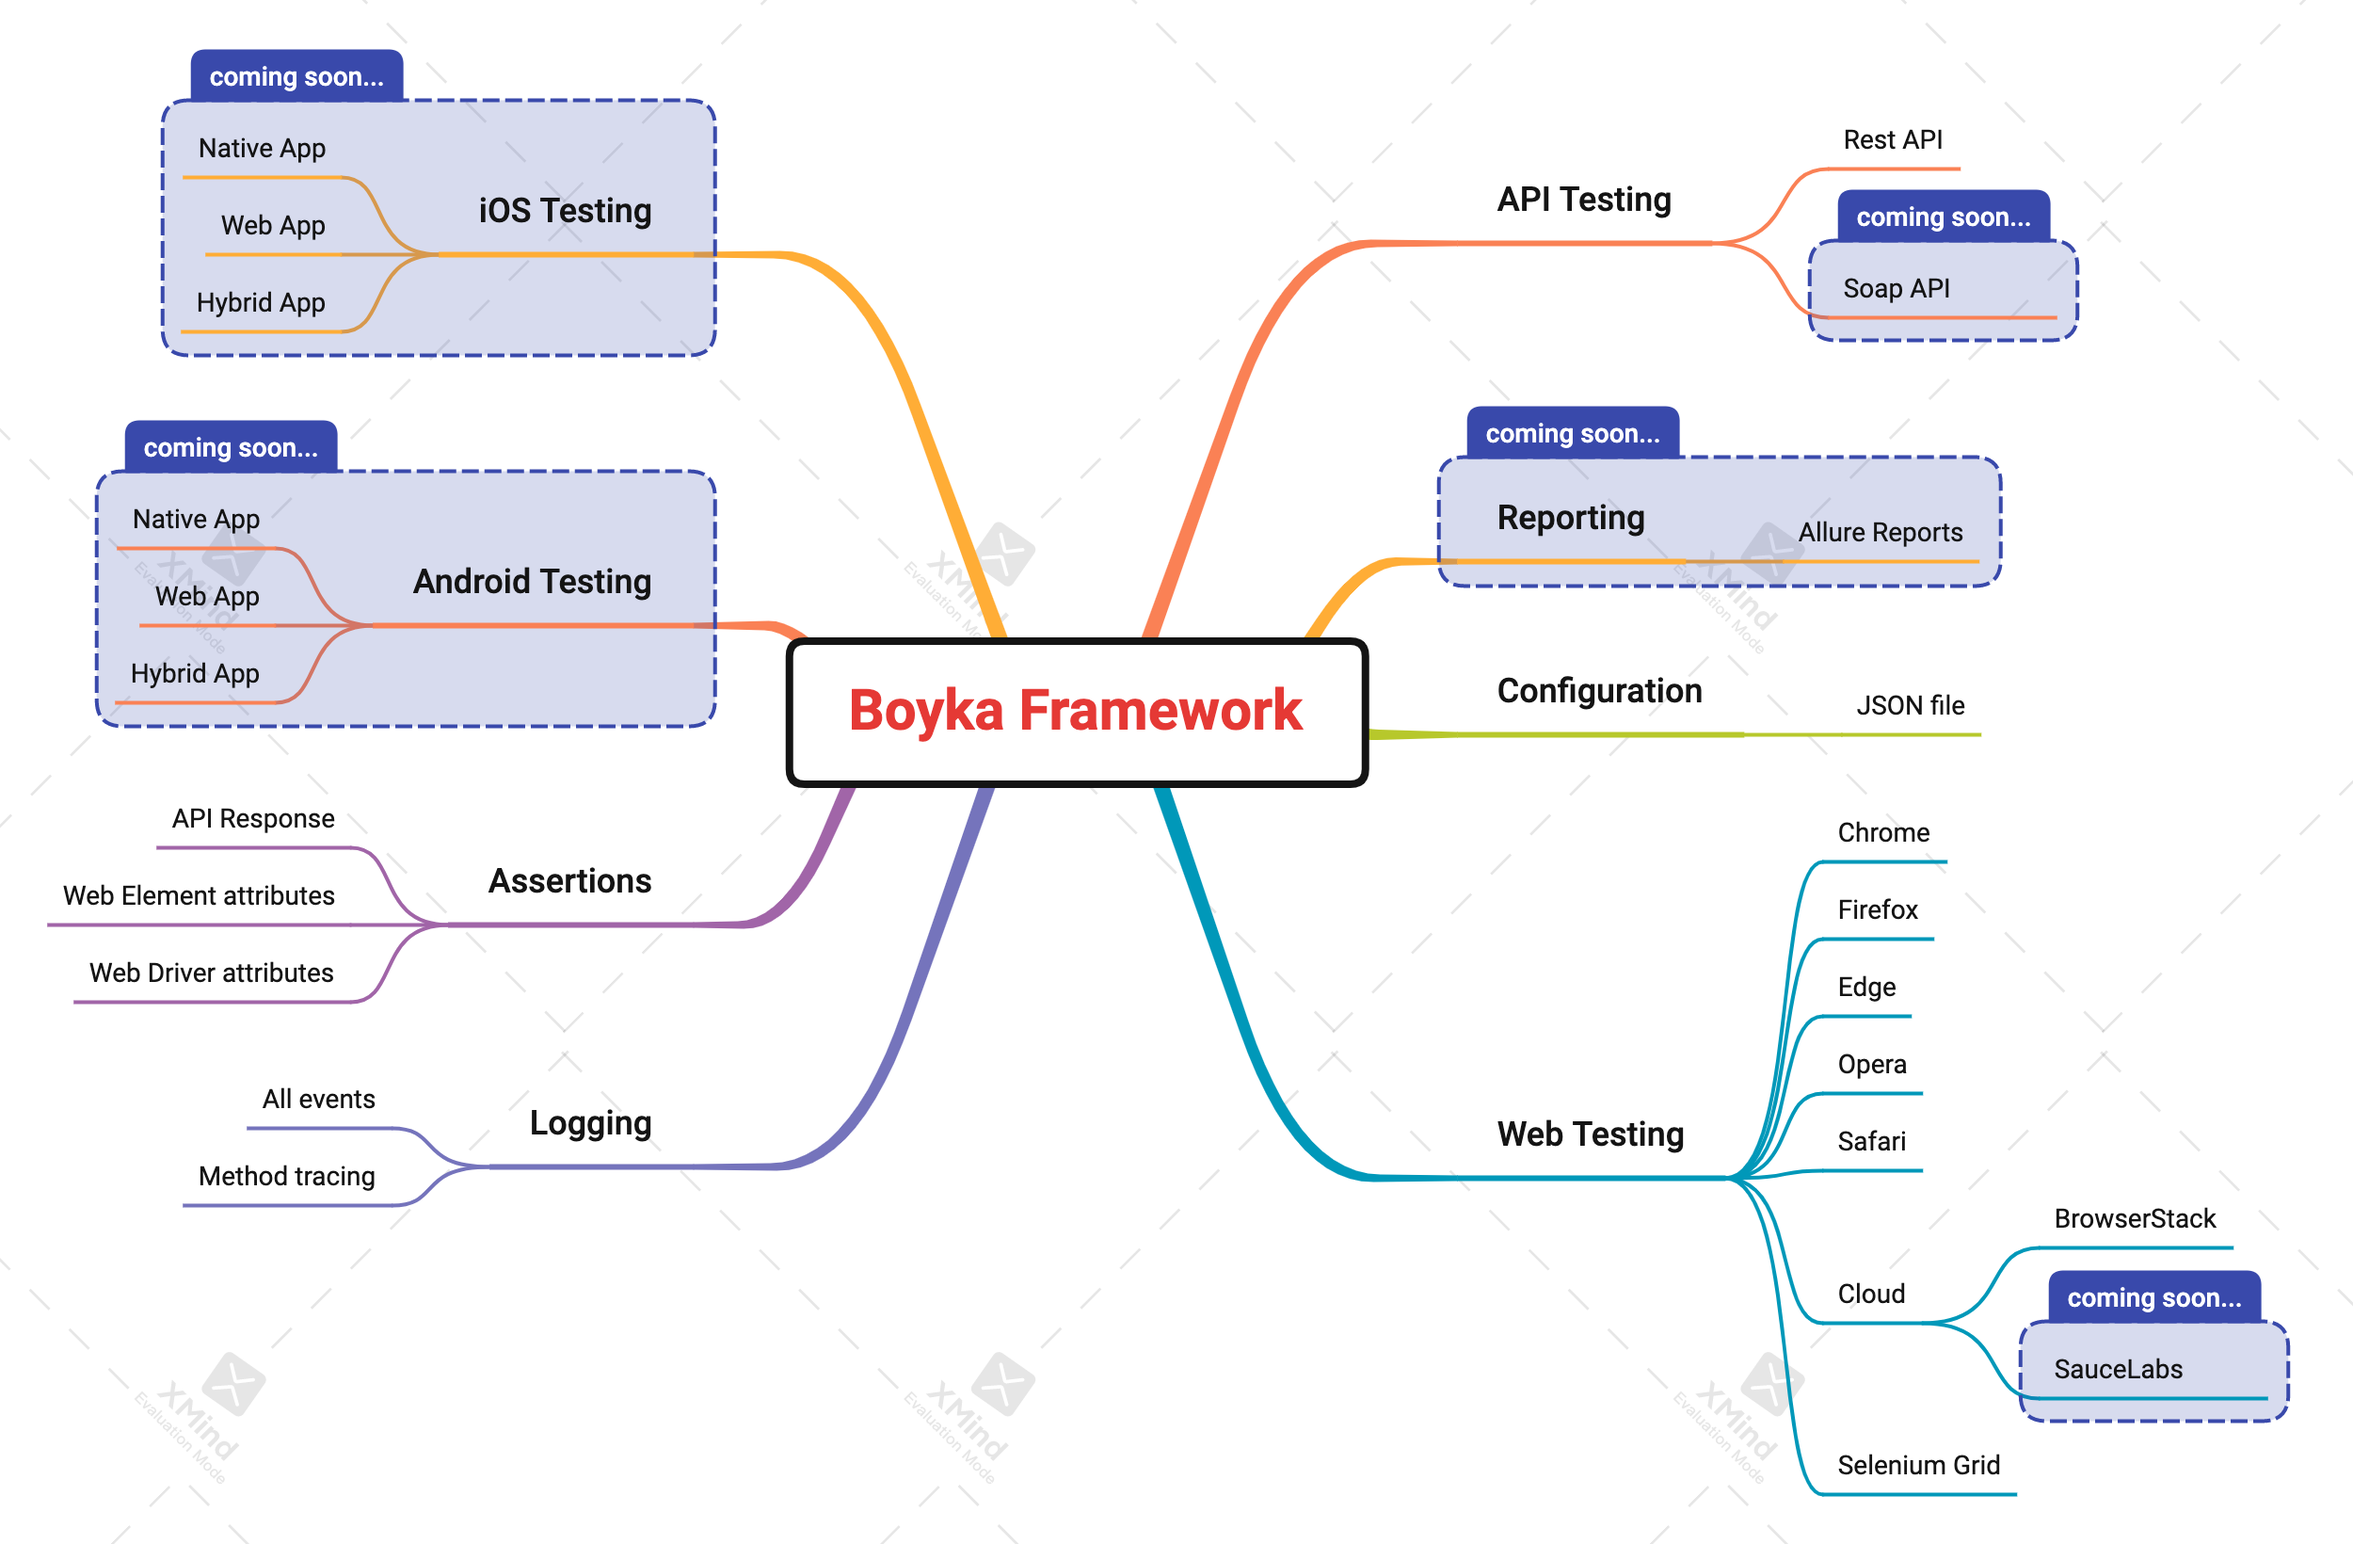
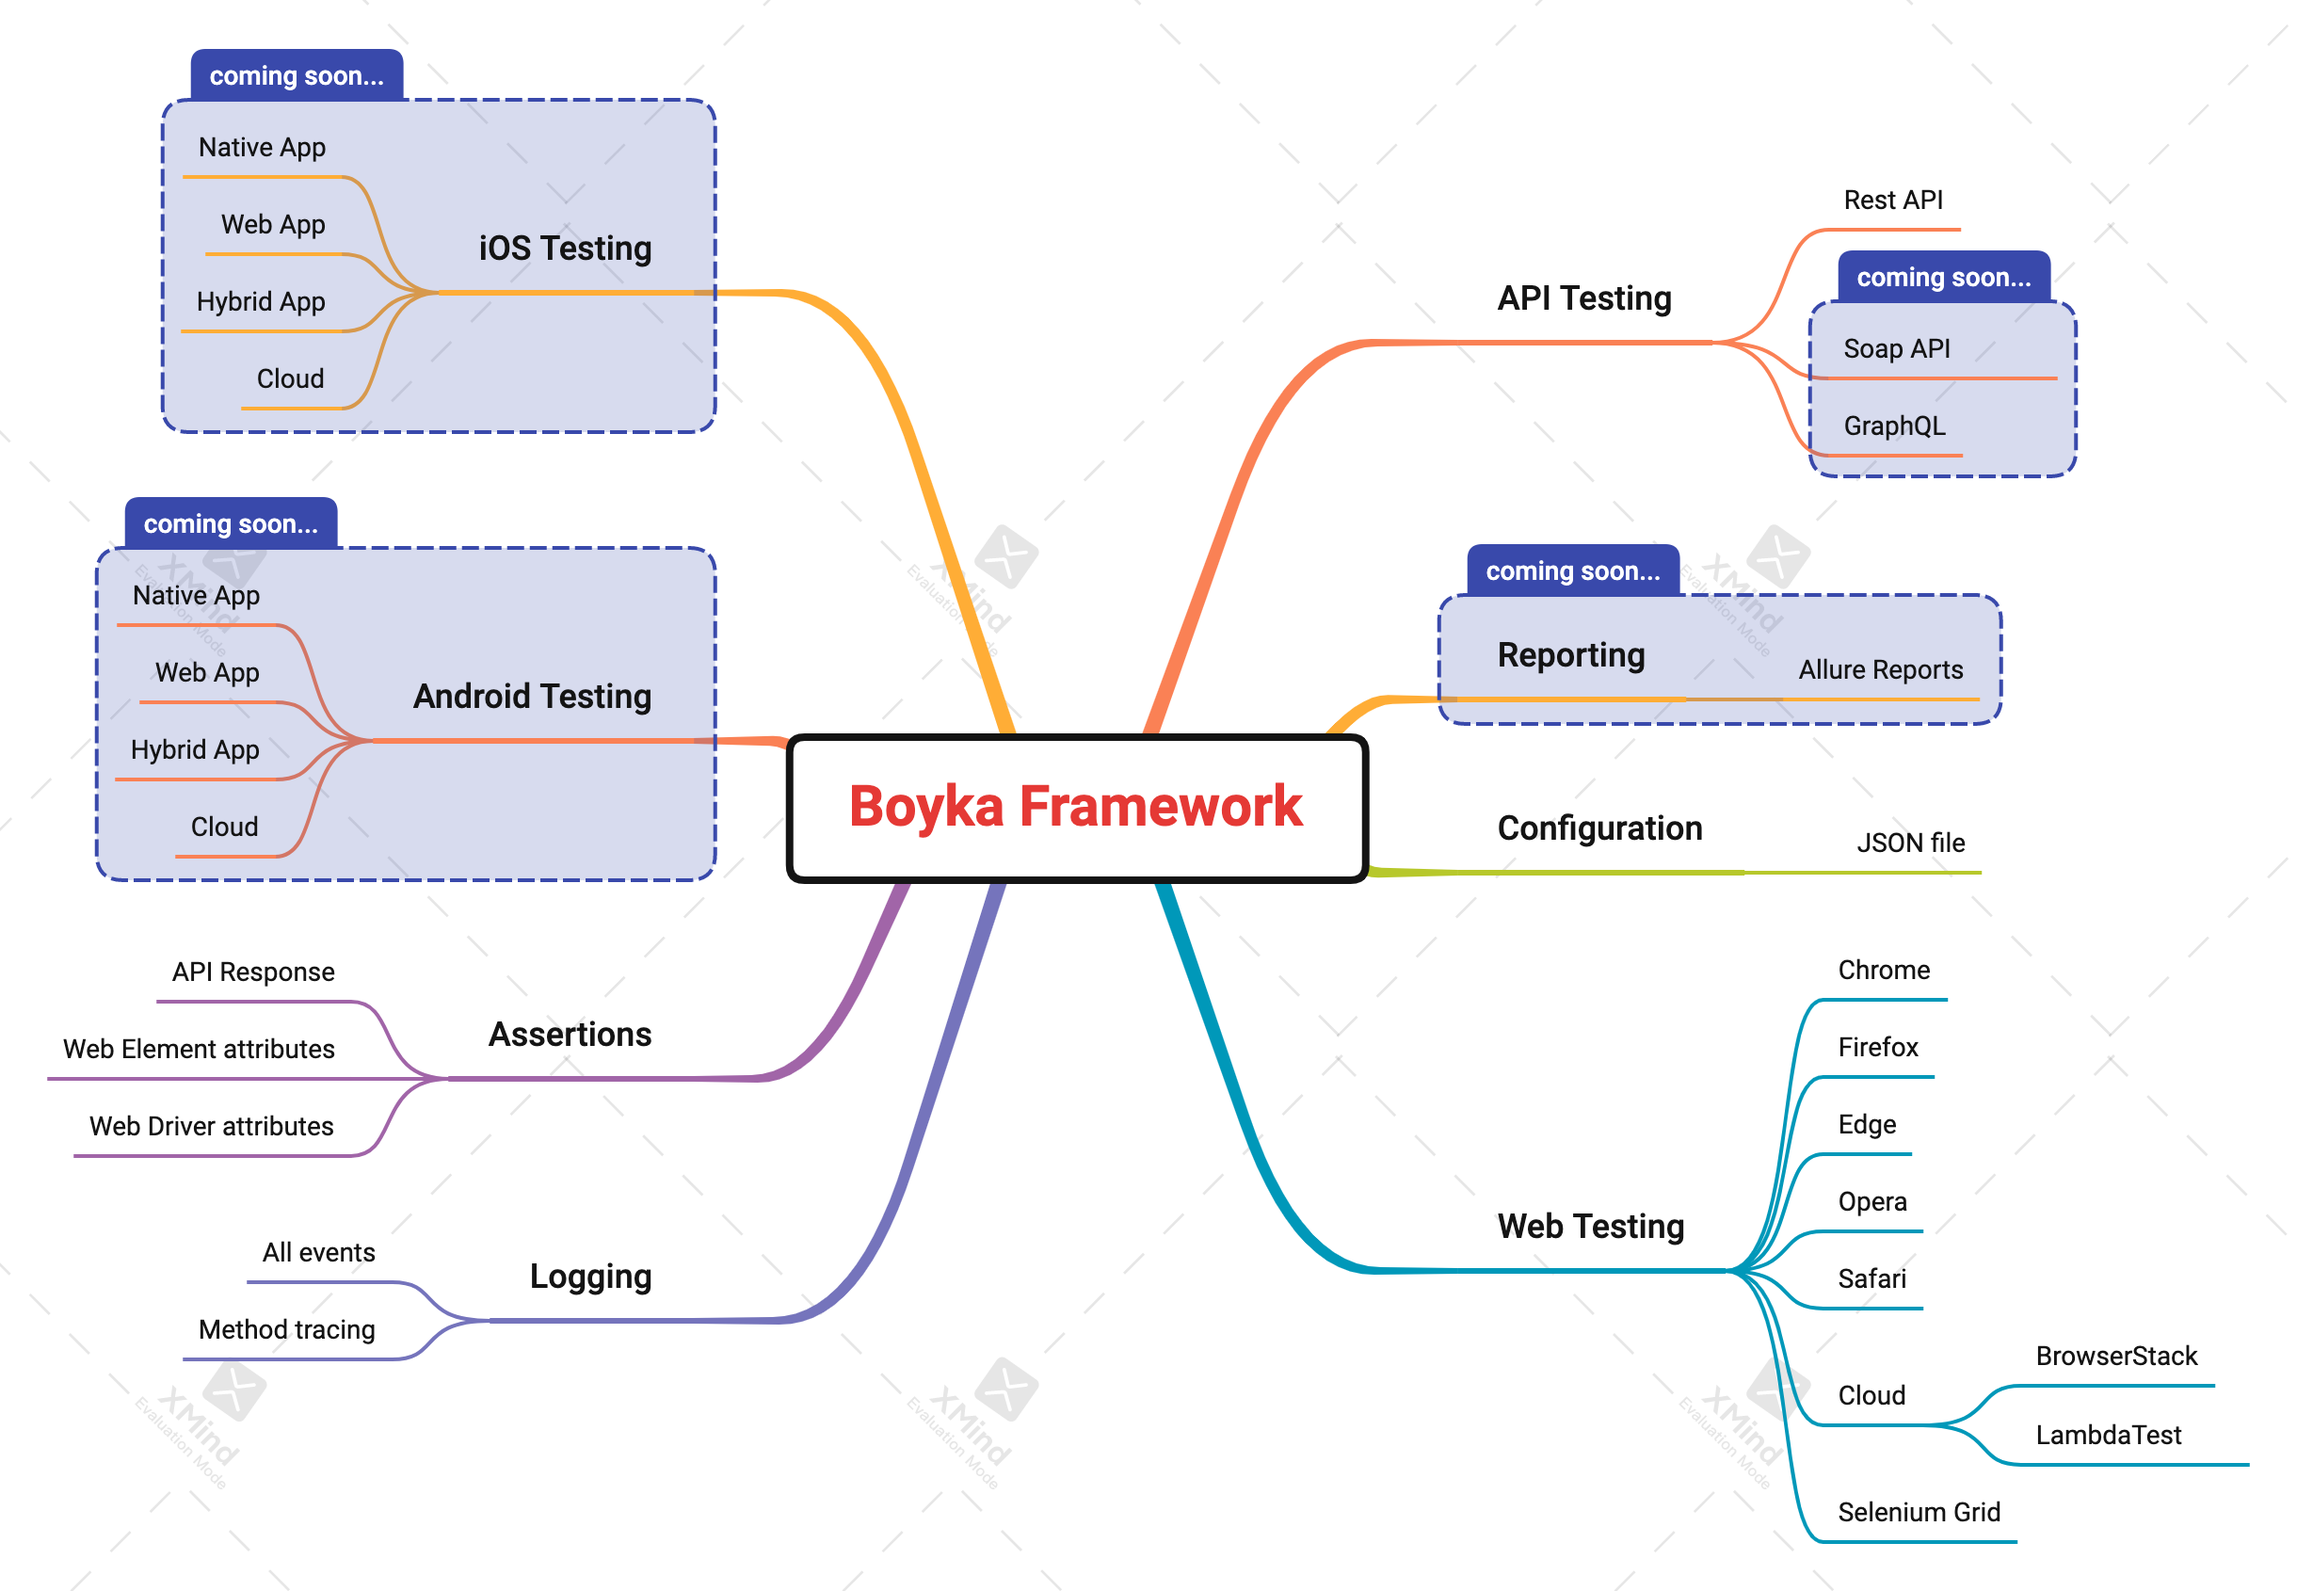
docs(website): :memo: added API related docs
and removed scaffolded blog posts

Changed region(s): [[0.0311, 0.0311, 0.9967, 0.9951], [0.1869, 0.7152, 0.3738, 0.8396], [0.4049, 0.8396, 0.4672, 0.9329]]

diff --git a/website/docs/framework-docs/guides/api/compose-request.md b/website/docs/framework-docs/guides/api/compose-request.md
@@ -1,3 +1,57 @@
 ---
 title: Compose Request
 ---
+
+For API automation, we have created `ApiRequest` class which you can utilize to build API requests.
+
+This class has a builder pattern which allows you to build API requests in a fluent way.
+
+Let's see how to build API request for different request methods using the following API configuration.
+
+```json title="src/test/resources/boyka-config.json"
+{
+  "ui": {
+    ...
+  },
+  "api": {
+    "test_reqres": {
+      "base_uri": "https://reqres.in",
+      "base_path": "/api",
+      "read_timeout": 2,
+      "write_timeout": 2,
+      "connection_timeout": 1,
+      "logging": {
+        "request": true,
+        "response": true
+      }
+    }
+  }
+}
+```
+
+## Example
+
+Let's create an instance of `ApiRequest` and build a request for `POST /api/users` with body:
+
+```java
+// This key refers to config key under API section.
+final String API_CONFIG_KEY = "test_reqres";
+
+// Create request body object.
+final User user = User.createUser ()
+    .name ("Wasiq")
+    .job ("Software Engineer")
+    .create ();
+
+// Build API request.
+final ApiRequest request = ApiRequest.createRequest ()
+    .configKey (API_CONFIG_KEY)
+    .method (RequestMethod.POST)
+    .path ("/users")
+    .bodyObject (user)
+    .create ();
+```
+
+:::info
+Similarly, you can build a request for other types of requests by modifying `RequestMethod` enum.
+:::

diff --git a/website/docs/framework-docs/guides/api/execute-request.md b/website/docs/framework-docs/guides/api/execute-request.md
@@ -1,0 +1,37 @@
+---
+title: Execute Request
+---
+
+Once you have composed your API request, you can execute it using class `ApiManager` and method `execute`.
+
+## Example
+
+```java
+// Using request created in previous example.
+final ApiResponse response = ApiManager.execute (request);
+```
+
+## API Response class
+
+The `execute` method will return `ApiResponse` class object which contains methods to verify the response body and status code.
+
+:::caution
+Methods to verify Response headers will be added soon!
+:::
+
+### Verification methods
+
+Following are the methods exposed in `ApiResponse` class to verify the response body and status code:
+
+- `verifyBooleanField`: Verifies the boolean field in response body.
+- `verifyIntField`: Verifies the integer field in response body.
+- `verifyStatusCode`: Verifies the status code of response.
+- `verifyStatusMessage`: Verifies the status message of response.
+- `verifyTextField`: Verifies the text field in response body.
+
+### Methods to get response data
+
+Following are the methods exposed in `ApiResponse` class to get response data:
+
+- `getResponseData (expression)`: Returns the response data as String.
+- `getResponseData (expression, type)`: Returns the response data as per the specified class type.

diff --git a/website/docs/framework-docs/guides/configuration.md b/website/docs/framework-docs/guides/configuration.md
@@ -222,8 +222,4 @@ We have an enum `CloudProviders` where we maintain the list of supported cloud p
 
 - `NONE`: No cloud provider will be used.
 - `BROWSER_STACK`: Is used for BrowserStack cloud provider.
-- `SAUCE_LABS`: Is used for SauceLabs cloud provider.
-
-:::info
-SauceLabs support is coming soon.
-:::
+- `LAMBDA_TEST`: Is used for LambdaTest cloud provider.

diff --git a/website/blog/2022-04-3-welcome/index.md b/website/blog/2022-04-3-welcome/index.md
@@ -1,0 +1,5 @@
+---
+slug: welcome
+title: Welcome to Boyka!
+authors: [wasiqb, faisalk]
+---
